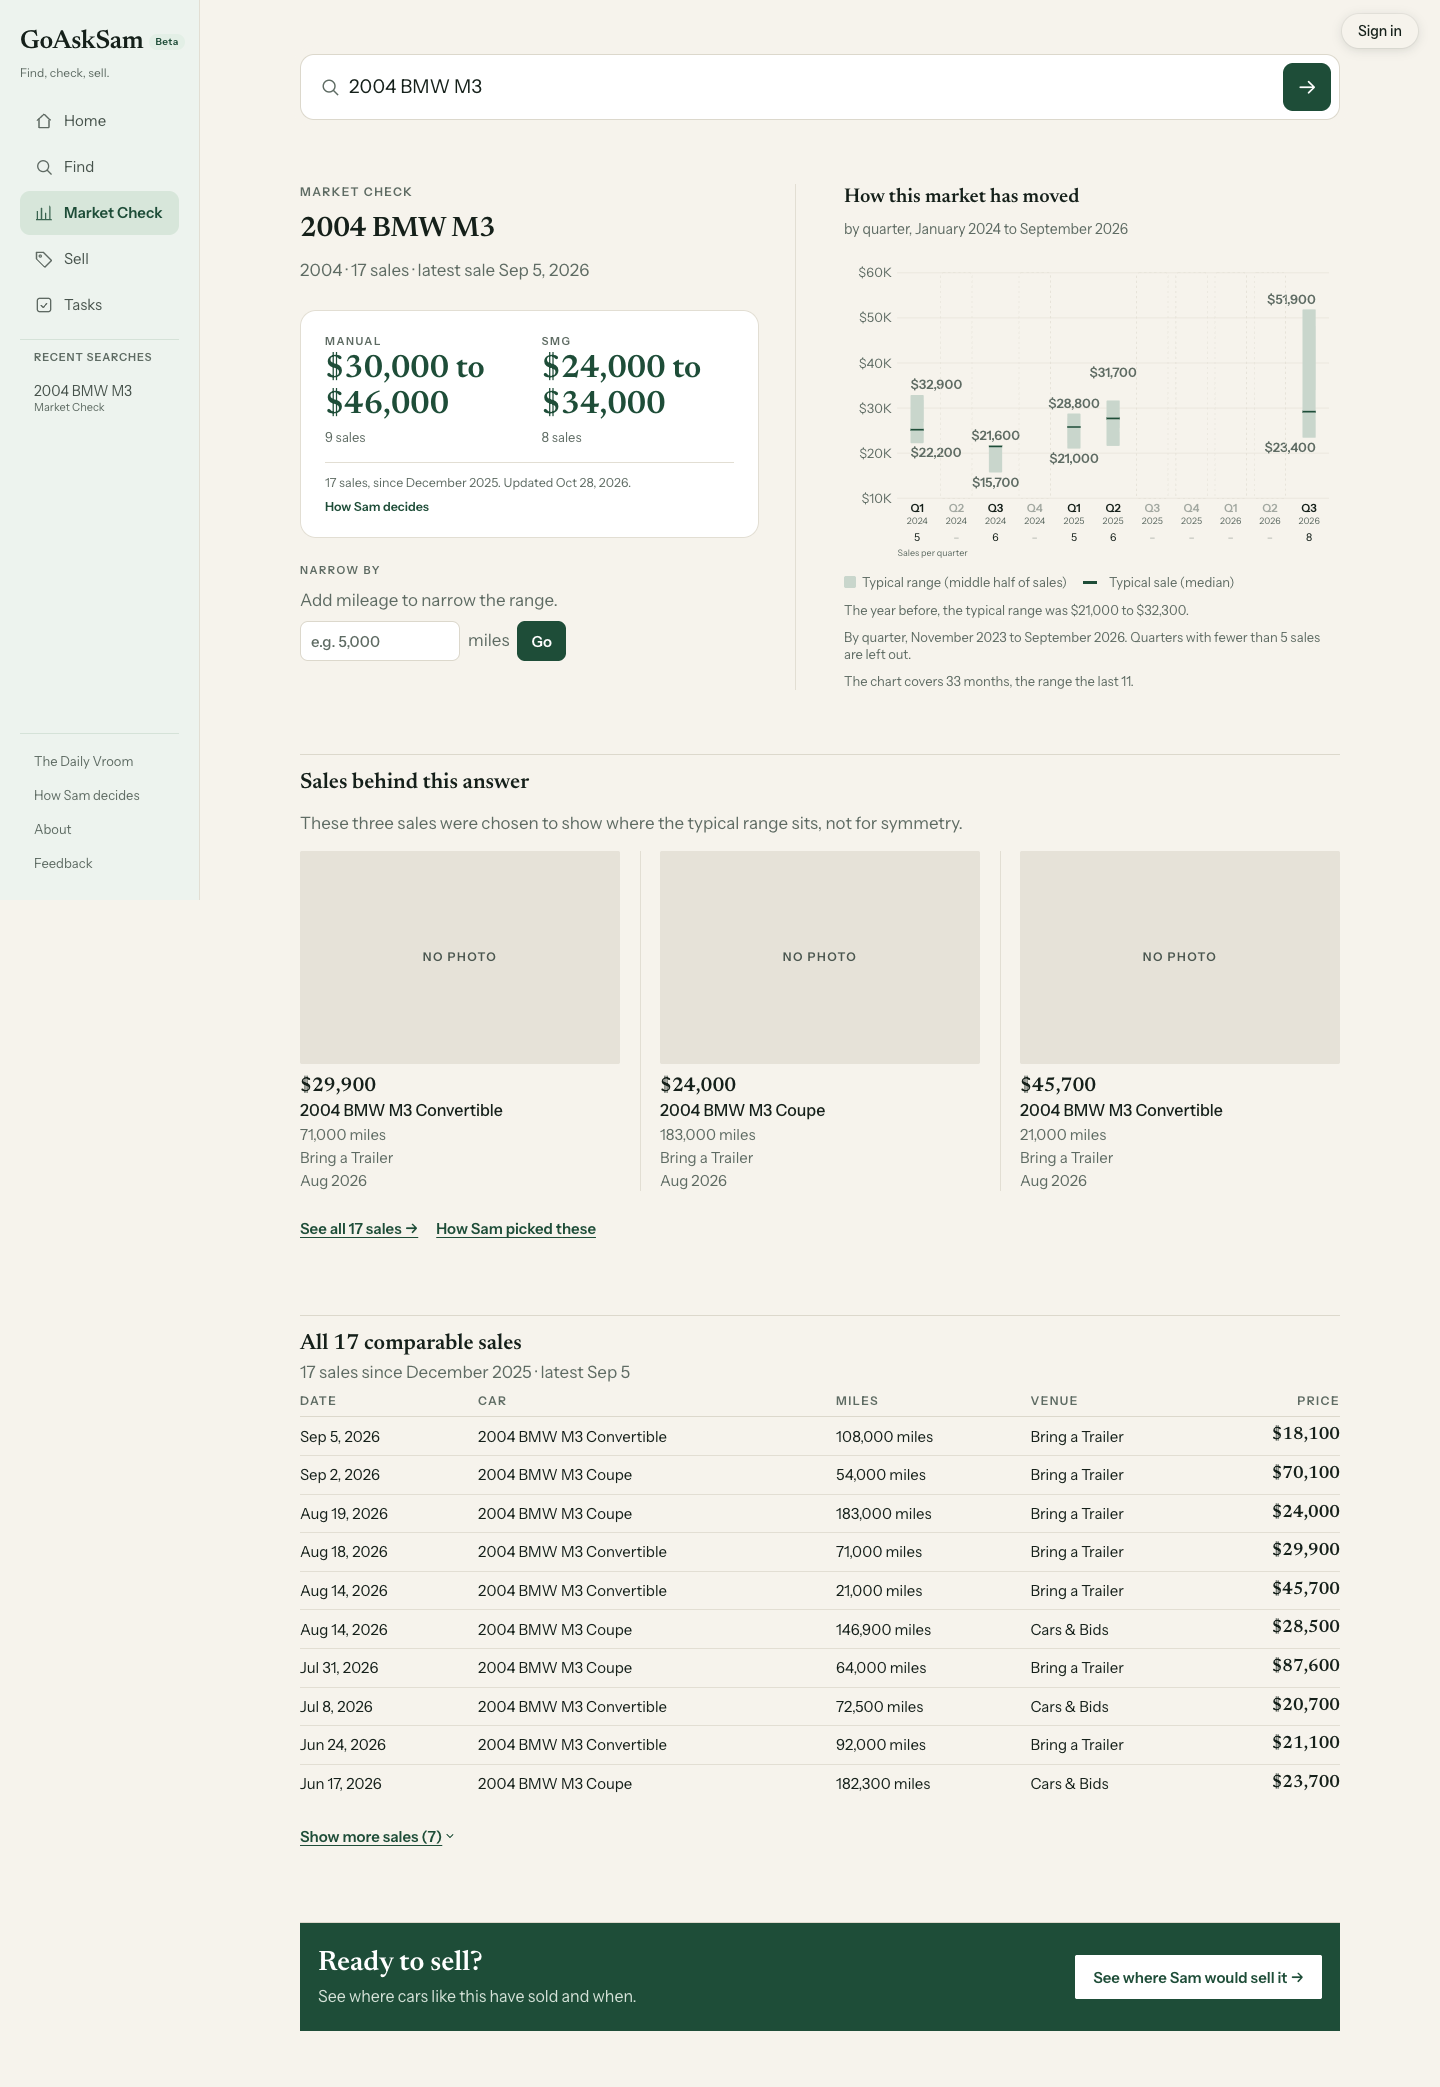
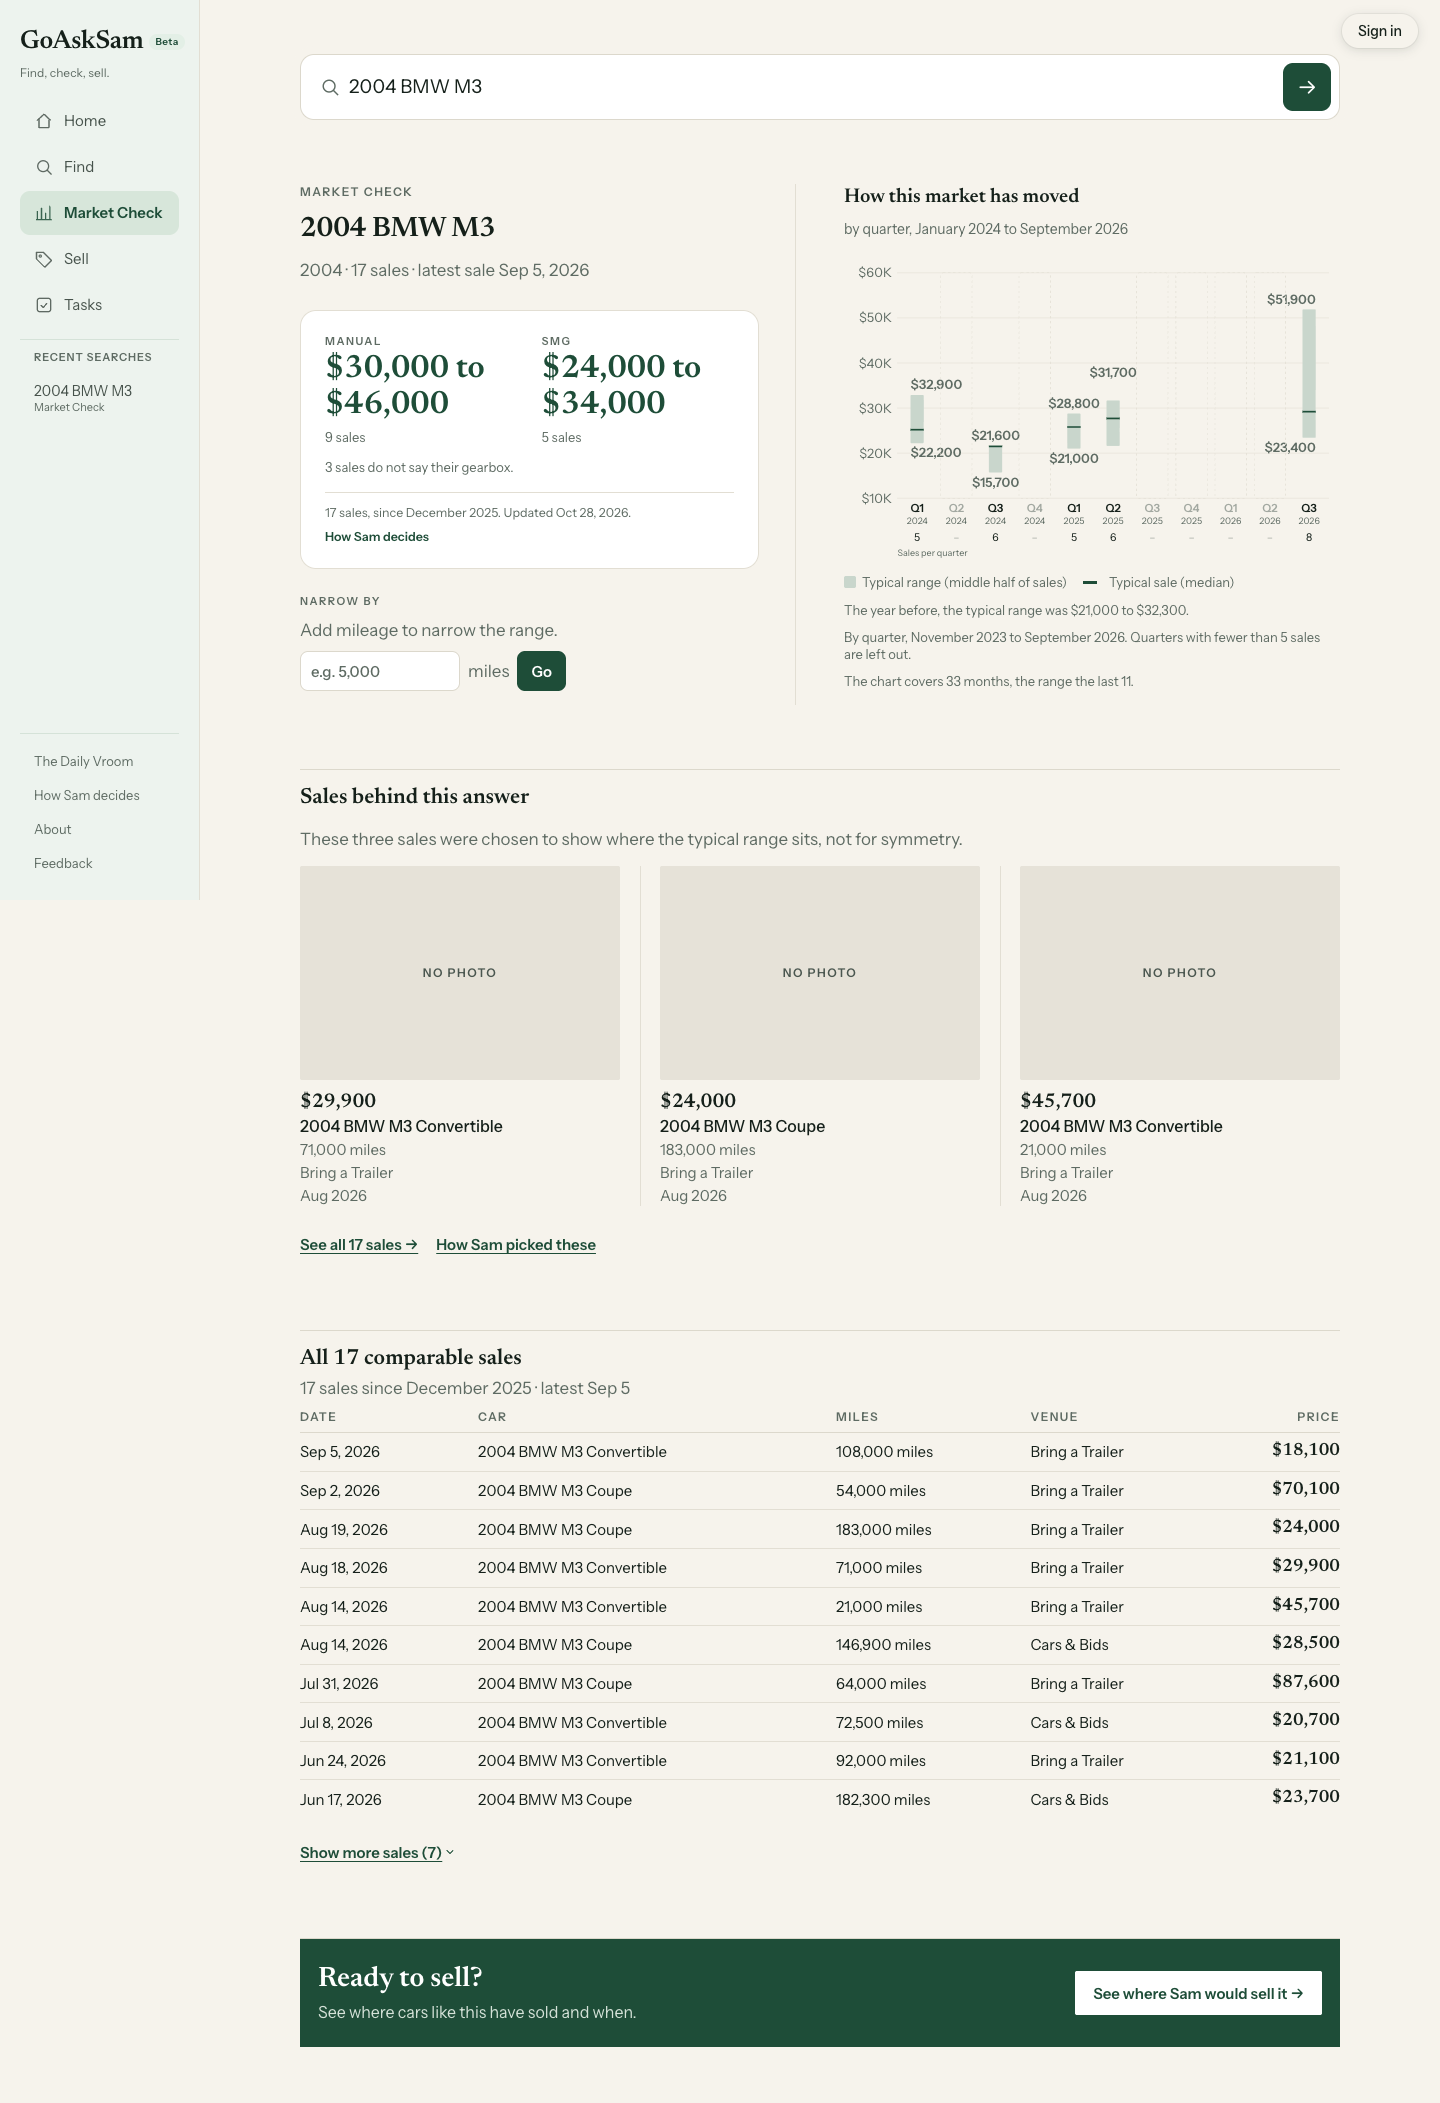
Counts from the engine (e100): optionsRemainder line under the options, refine chips marked ofOptions are not printed twice; checks (pill repeats an option, options do not add to the footer without the remainder)

diff --git a/lib/sellsForCard.js b/lib/sellsForCard.js
@@ -165,10 +165,14 @@ function sellsForCardFactory() {
       const p = partsOf(t), r = optionRefs(d, o, i), n = p ? (/^\d[\d,]*/.exec(p.count) || [""])[0] : "";
       pills.push(p && n ? pillHtml(p.label, n, t, r ? { cls: "sfc-opt-btn", refine: r.refine, extra: " data-mlabel=\"" + esc(r.label || "") + "\"" } : null) : "<span class=\"sfc-pill\">" + esc(t) + "</span>");
     });
-    (Array.isArray(d && d.refineOptions) ? d.refineOptions : []).filter(x => x && x.label).forEach(x =>
+    // ENGINE (Lane B, e100): a refine option marked ofOptions repeats a headline option that is already shown (as a pill above or a block in the card): it is not printed again.
+    (Array.isArray(d && d.refineOptions) ? d.refineOptions : []).filter(x => x && x.label && !x.ofOptions).forEach(x =>
       pills.push(pillHtml(x.label, Number(x.n).toLocaleString("en-US"), "", { cls: "sfc-chip", refine: x.refine, extra: " data-dim=\"" + esc(x.dimension || "") + "\" data-val=\"" + esc(x.value) + "\" data-mlabel=\"" + esc(x.label) + "\"" })));
-    return pills.length ? "<p class=\"sfc-pills\">" + pills.join("") + "</p>" : "";
+    // optionsRemainder (the engine's line, "3 sales do not say their gearbox."): printed under the options whenever it is set, so the options always add to the count
+    const rem = remainderOf(d);
+    return pills.length ? "<p class=\"sfc-pills\">" + pills.join("") + "</p>" + (rem && d.optionsState === "alike" ? "<p class=\"sfc-remainder\">" + esc(rem) + "</p>" : "") : "";
   }
+  function remainderOf(d) { const r = d && d.optionsRemainder; return r && typeof r.line === "string" && r.line.trim() ? r.line.trim() : ""; }
   function optionsSrHtml(d, o) { return d && d.optionsState === "alike" && !o.interactive && optionLinesOf(d).length ? "<p class=\"sfc-sr\">" + optionLinesOf(d).map(esc).join(" ") + "</p>" : ""; }
   function sellsForCardHtml(answer, opts) {
     const d = answer || {};
@@ -190,6 +194,7 @@ function sellsForCardFactory() {
     const blocks = (d.optionsState === "split" || d.optionsState === "apart") ? blocksHtml(d, o) : "";
     const small = [];
     const addSmall = t => { if (t && typeof t === "string" && t.trim() && !small.includes(t.trim())) small.push(t.trim()); };
+    if (!(d.optionsState === "alike" && o.interactive)) addSmall(remainderOf(d));
     addSmall(d.yearNote);
     addSmall(d.wideLine);
     if (!o.reasonsShown) addSmall(d.scope_reason);
@@ -295,6 +300,7 @@ button.sfc-block{cursor:pointer;border-radius:8px}
 button.sfc-block:hover .sfc-range,button.sfc-block:focus-visible .sfc-range{color:var(--ink,#15201A)}
 button.sfc-block:focus-visible{outline:2px solid var(--green,#1E4D38);outline-offset:4px}
 .narrow-strip{margin:0 0 14px}
+.sfc-remainder{margin:8px 0 0;font:400 13px/1.4 var(--sans);color:var(--sec,#5E6B63)}
 .narrow-strip .sfc-label{margin:0 0 2px}
 .narrow-strip .hero-miles{margin-top:10px}
 .sfc-narrow{margin:6px 0 12px}
